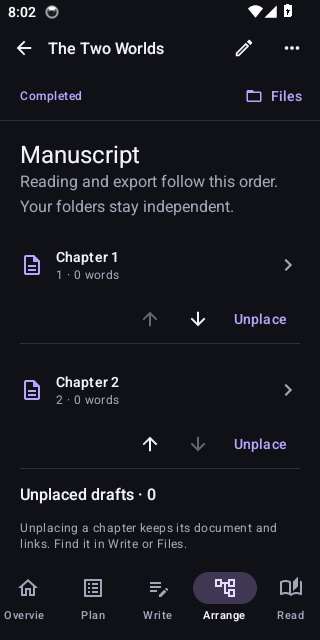
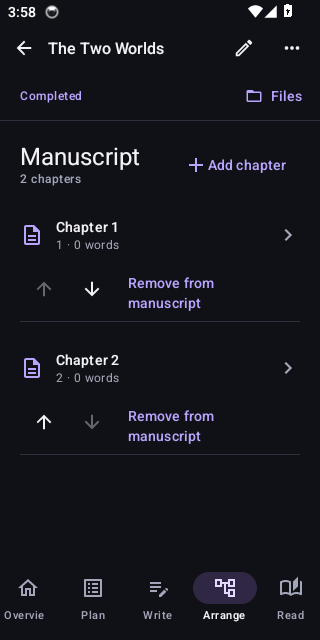
docs: verify Arrange chapter selection and package v0.5.2 [skip ci]

diff --git a/README.md b/README.md
@@ -1,6 +1,6 @@
 # NovelForge — local Android writing workspace
 
-NovelForge 0.5.1 combines a flexible folder workspace with Overview, Plan, Write, Arrange and Read views. Markdown documents and linked story references remain local; manuscript order is independent from folder organization. Built with Kotlin, Jetpack Compose and Room. The redesigned interface uses compact sans-serif typography, charcoal/violet and light themes, geometric covers and short transitions.
+NovelForge 0.5.2 combines a flexible folder workspace with Overview, Plan, Write, Arrange and Read views. Markdown documents and linked story references remain local; manuscript order is independent from folder organization. Built with Kotlin, Jetpack Compose and Room. The redesigned interface uses compact sans-serif typography, charcoal/violet and light themes, geometric covers and short transitions.
 
 ## Screens
 
@@ -46,7 +46,7 @@ A domain-based modular monolith with Clean Architecture boundaries, Hilt depende
 - **Resources:** Plan groups references by real workspace folders. Its single + creates a resource in an existing or new category. Scratch has no preset taxonomy. External sources retain a URL and notes locally. Existing root files remain accessible as Uncategorized.
 - **Synopsis:** Overview displays the story summary with a dedicated edit action and configurable word limit; Recent documents has been removed.
 - **Workspace:** five focused views for the novel overview, story collections, drafts, manuscript arrangement and reading. The same file explorer is available throughout.
-- **Manuscript:** reorder chapters independently of folders; unplace a chapter without deleting its document; reading, Markdown export and manuscript statistics follow inclusion.
+- **Manuscript:** Add chapter selects existing drafts through a searchable multi-select picker. Reorder independently of folders; Remove from manuscript keeps the source document. New drafts wait to be selected; existing/template membership is preserved. Reading, Markdown export and manuscript statistics follow inclusion. See [Arrange requirements and design](docs/ARRANGE_REQUIREMENTS.md).
 - **Explorer:** compact flat rows, separate expand/select controls, search, expand/collapse all, active-file reveal, rename, move, sibling ordering, drag-to-folder and recoverable subtree deletion. The editor drawer includes create actions and an explicit close button.
 - **Novel details:** a separate pencil action opens title, author, multiple genres and writing status. Synopsis belongs in the overview document. Overflow contains export, backup and confirmed permanent workspace deletion.
 - **Writing:** autosave, syntax coloring, proportional/monospace choice, formatting toolbar, wiki-link picker, focus mode, undo/redo, checkpoints, backlinks and word/character/reading-time metrics.
@@ -58,9 +58,9 @@ The explorer is a logical tree in the local database, not an external Markdown v
 
 ## Verification and installation
 
-The 0.5.1 build at source `87f20877e4d8d996fd538f7307e52200d7585bd6` passes compilation, architecture boundaries, 28 JVM tests, six API 34 Android device tests and lint. [CI run 39926424532](https://github.com/iAdityaD/NovelForge/actions/runs/39926424532) retains the APK, reports and screenshots. New tests cover scratch resource categories, atomic rejection, category rename/delete/restore, external source backup compatibility and synopsis editing.
+The 0.5.2 build at source `12593a5158257d1c1917f2b1ce6c7fa264d340ba` passes compilation, architecture checks, 29 JVM tests, six API 34 Android tests and lint. [CI run 40060173193](https://github.com/iAdityaD/NovelForge/actions/runs/40060173193) retains the APK, reports and screenshots. Coverage includes atomic chapter selection, invalid/cross-workspace rejection, duplicate prevention, reopen persistence and the on-device remove/re-add picker flow.
 
[2 lines of base64/hex data omitted]
 
 **Before replacing an older development build, export each workspace backup outside app storage.** CI debug signing keys can differ between builds. If Android rejects the update because of its signature, only uninstall after securing your backups; install the new APK and restore them. Uninstalling deletes app-local data. Production distribution still requires a stable private signing key.
 

diff --git a/PROGRESS.md b/PROGRESS.md
@@ -203,3 +203,10 @@ Every stage is committed to main as requested. Build verification and limitation
 - Searchable multi-select chapter picker with stable IDs, folder paths, Added states, empty/search states. Atomic batch inclusion validates the workspace and document type before writes; repeated additions preserve order.
 - Replaced Unplace with Remove from manuscript; removed the unplaced tray and instructional paragraphs. New drafts are excluded until selected; existing/template/restored membership is preserved.
 - Added batch rejection/idempotency/reopen regression and updated device flow. Verification pending.
+
+
+## 0.5.2 verified delivery
+- Source `12593a5158257d1c1917f2b1ce6c7fa264d340ba`; CI `40060173193`: both jobs passed. 29 JVM tests, six API 34 device tests, no failures/skips; compilation, architecture checks and lint passed.
+- Verified APK signature/version 0.5.2 (7), minSDK 26; inspected Arrange capture. Packaged NovelForge-v0.5.2-Android.zip.
+- Arrange now selects existing chapters; no chapter creation route. Remove from manuscript preserves documents. New draft membership is explicit, existing data untouched.
+- Requirements/design live in docs/ARRANGE_REQUIREMENTS.md. No schema change; repository batch addition owns transactional validation.
